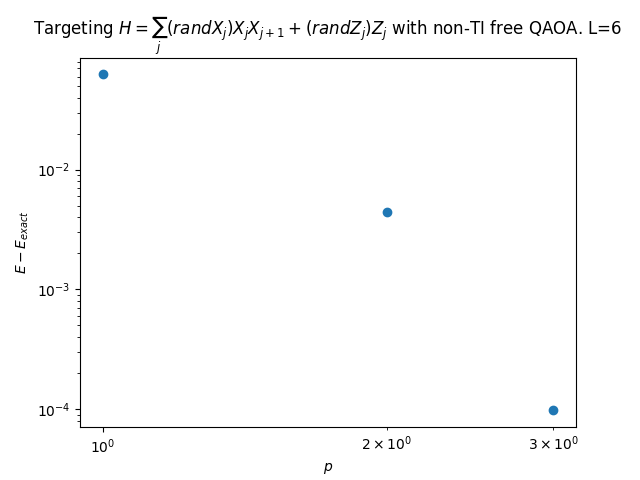
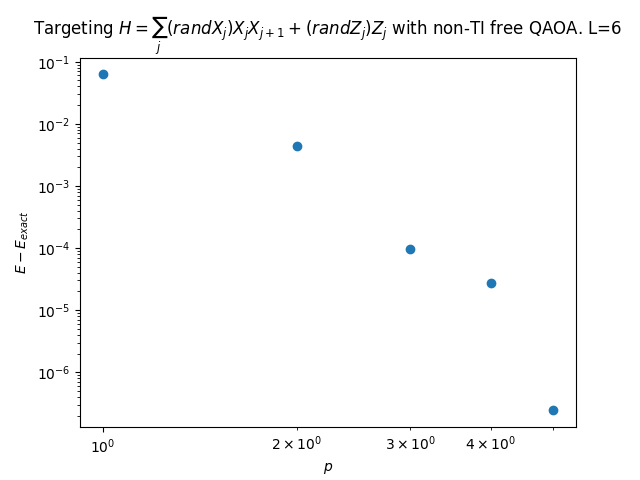
cleanup

diff --git a/Code/04_random_plateau.py b/Code/04_random_plateau.py
@@ -3,12 +3,8 @@ import numpy as np
 from matplotlib import pyplot as plt
 import os
 from time import time
-from jax import jit, grad
-from scipy.optimize import minimize
+from jax import grad
 import pandas as pd
-
-#n=3
-#execution_number = pd.DataFrame(np.array(allgrads).T, columns=['Execution Number'])
 
 def cost_function(ts, L, p, Jx, Jz):
     '''
@@ -63,24 +59,19 @@ for LL in np.logspace(0.5,3,16):
     vars.append(np.var(grads))
     Ls.append(L)
 
-    #plt.figure(1)
-    #plt.loglog(Ls, means,'o',label='Means')
-
-    plt.figure(2)
-
     if len(Ls)>1:
         fit = np.polyfit(np.log(Ls), np.log(vars), 1)
         x = np.linspace(min(Ls), max(Ls), 100)
         y = np.exp(np.polyval(fit, np.log(x)))
         plt.loglog(x,y,'--',label='Fit: $var ~ L^{{{:.2f}}}$'.format(fit[0]))
 
-    plt.title('Targeting $H=\sum_j (randX_j) X_j X_{j+1} + (randZ_j) Z_j$ with non-TI free QAOA.')
-    plt.loglog(Ls,vars, 'o', label='Variances')
-    plt.xlabel('$L$')
-    plt.legend(loc='best')
-    plt.ylabel('var($ dE / dt)$ ({} samples and derivate w.r.t. central parameter)'.format(n_samples))
-    plt.savefig('../Plots/ProducingScript=' + os.path.basename(__file__) + '_04_random_target.png')
-    plt.show()
+        plt.title('Targeting $H=\sum_j (randX_j) X_j X_{j+1} + (randZ_j) Z_j$ with non-TI free QAOA.')
+        plt.loglog(Ls,vars, 'o', label='Variances')
+        plt.xlabel('$L$')
+        plt.legend(loc='best')
+        plt.ylabel('var($ dE / dt)$ ({} samples and derivate w.r.t. central parameter)'.format(n_samples))
+        plt.savefig('../Plots/ProducingScript=' + os.path.basename(__file__) + '_04_random_target.png')
+        plt.show()
 
     df = pd.DataFrame(np.array(allgrads).T, columns=labels)
     df.to_csv('../Data/ProducingScript=' + os.path.basename(__file__) + '04_random_target_gradients.csv')

diff --git a/Code/07_optimization_gradient_free.py b/Code/07_optimization_gradient_free.py
@@ -56,15 +56,15 @@ for p in range(1,L**2):
     nits.append(res.nit)
 
     if len(ps)>1:
+        plt.figure(1)
         plt.title('Targeting $H=\sum_j (randX_j) X_j X_{j+1} + (randZ_j) Z_j$ with non-TI free QAOA. L=6')
         plt.loglog(ps,[x-exact_energy for x in energies], 'o')
         plt.xlabel('$p$')
-        #plt.legend(loc='best')
         plt.ylabel('$E- E_{exact}$')
         plt.savefig('../Plots/ProducingScript=' + os.path.basename(__file__) + '_energy.png')
         plt.show()
 
-    if len(ps)>1:
+        plt.figure(2)
         fit = np.polyfit(np.log(ps), np.log(nits), 1)
         x = np.linspace(min(ps), max(ps), 100)
         y = np.exp(np.polyval(fit, np.log(x)))

diff --git a/Code/03_optimization_BFGS.py b/Code/03_optimization_BFGS.py
@@ -1,9 +1,7 @@
 from differentiable_covariance import CovarianceMatrix, ising_energy_density
 import numpy as np
-from matplotlib import pyplot as plt
-import os
 from time import time
-from jax import jit, grad
+from jax import grad
 from scipy.optimize import minimize
 
 
@@ -39,9 +37,6 @@ t_initial = np.random.rand(p*(L-1) + p*L)*np.pi/2
 cost_density = lambda ts: cost_function(ts, L, p, Jx, Jz).real/L
 cost_grad = grad(cost_density)
 
-print(cost_density(t_initial).real)
-
-topt = time()
 time2solution = time()
 res = minimize(cost_density, t_initial, method='BFGS', jac=cost_grad,
                options={'maxiter': 1e6, 'gtol': 1e-7, 'disp': True, 'eps': 6e-14})
